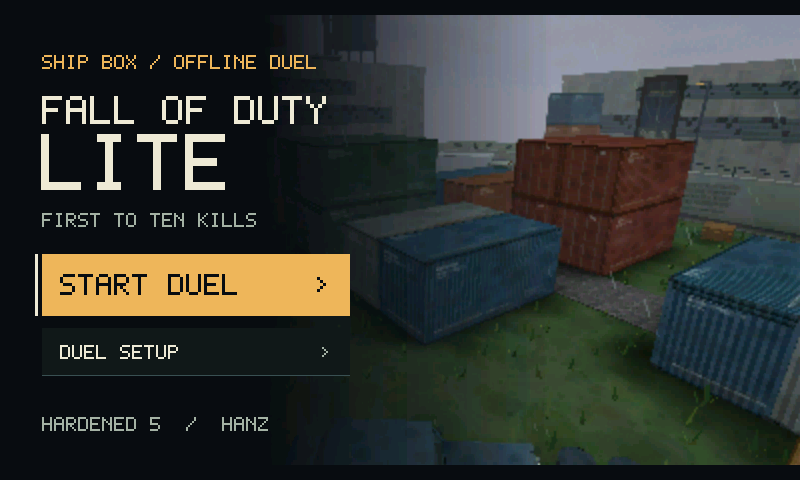
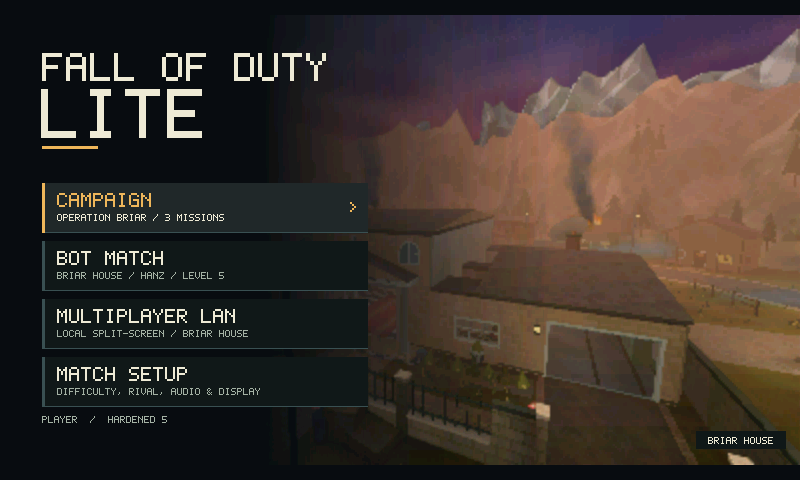
Refresh README with Operation Briar overview, updated sizes, and new screenshots

diff --git a/README.md b/README.md
@@ -1,151 +1,76 @@
 # Fall of Duty Lite
 
-**3.92 MB (3,917,641 bytes)** for the current microSD game pack. [Pack manifest](assets/fall-of-duty.fodp.json)
+**An offline, software-rendered first-person shooter for the ESP32-P4 handheld and SDL2 desktops** — packing a three-mission alien-invasion campaign, 1v1 and three-way bot matches, and local split-screen duels into a **4.00 MB** core game pack, plus a **3.38 MB** optional voice bank (**7.38 MB** total on SD for the full voiced campaign).
 
-Fall of Duty Lite is an offline first-person shooter for the Guition JC4880P443C_I_W ESP32-P4 and SDL2 desktops. Fight a first-to-ten match in Ship Box, a rain-soaked container yard. Duel either rival or face both in a three-way free-for-all. Difficulty ranges from 1 to 10 and defaults to level 5. The game renders at 400×225 or 320×180 and presents at 800×480.
+- **Core SD pack (`fall-of-duty.fodp`):** `4,001,984 bytes` (**4.00 MB**) ([manifest](assets/fall-of-duty.fodp.json)) — complete game & playable 3-mission campaign with subtitles, **4.6% smaller than the Doom v1.9 shareware WAD** ([reference](https://github.com/viti95/FastDoom/blob/master/README.txt))
+- **Voiced campaign bank (`campaign-voices.fodv`):** `3,379,439 bytes` (**3.38 MB**) ([manifest](assets/campaign-voices.fodv.json)) — 104 spoken lines across five voices, loaded only during Campaign (**7.38 MB** combined on SD)
+- **Targets:** Guition `JC4880P443C_I_W` (ESP32-P4, 800×480 display, wired DualShock 4) and macOS / Linux / Windows SDL2 desktops
 
-The pack is **6.6% smaller than the Doom v1.9 shareware WAD**. [Doom WAD size](https://github.com/viti95/FastDoom/blob/master/README.txt)
+[Operation Briar](#operation-briar-campaign) · [Play on Desktop](#play-on-desktop) · [Controls](#controls) · [Screenshots](#screenshots) · [Handheld Setup](#handheld-download-and-hardware) · [Verification & Benchmarks](#verification-and-testing)
 
-[Download v1.1.0 handheld package](https://github.com/AJ7-III/Fall-of-Duty-Lite/releases/tag/v1.1.0) · [Handheld setup](INSTALL.md) · [Play on desktop](#play-on-desktop) · [Board build and qualification](BOARD.md) · [Evidence and benchmarks](EVIDENCE.md)
+![Fall of Duty Lite start screen over dusk Briar House showing Campaign, Bot Match, Multiplayer LAN, and Match Setup](docs/images/title.png)
 
-![A Ship Box duel with the MP44, Hanz across the yard, and an active UAV on the minimap](docs/images/gameplay.png)
+---
 
-## Inside Ship Box
+## Three ways to play
 
-- **Three weapons with first-person arms** — Fuller olive sleeves and padded gloves sit close to the camera. The MP44 and USP .45 use subdued steel, and the M40A3 has a painted stock with a tinted scope lens.
-- **Distinct faces and field kits** — IPwndUrMom wears sand, Hanz has stubble and wears muted rust and charcoal, and the player wears olive camouflage and raised goggles.
-- **Killstreaks and rival voice comms** — Three consecutive kills activate UAV radar. Five unlock a targeted airstrike and seven unlock Apache support. The shared 27-line voice bank decodes mono 24 kHz IMA ADPCM on demand.
-- **Ship Box yard** — Green turf and 300 low-poly grass tufts fill the yard between the stone paths. Mild texture sharpening keeps lettering and surface edges legible at both render sizes.
-- **Baked daylight** — While the pack loads, the renderer works out soft sun shadows and ambient shade from the yard's own geometry. Containers darken toward the ground, the rival casts a contact shadow, and distant buildings fade into rain haze.
-- **Enhanced software renderer** — Perspective-aware mip blending, diagonal edge smoothing, 16-bit reciprocal depth, and a dithered sky cubemap. Desktop `--look classic` runs the earlier renderer for comparisons. [Rendering notes](QUALITY.md)
-- **Lossless asset compression** — The schema 7 pack stores independently compressed blocks and decodes them as it loads.
+- **Operation Briar (Campaign)** — A three-mission story set across the Colorado Front Range on Day One of an alien landing. Wake up in a wrecked drop zone, sweep a mist-covered mountain town, turn the invaders' own homing signal against them, and steer a mothership off the valley.
+- **Bot Match (1v1 & Free-for-All)** — First to ten in **Ship Box** (a rain-soaked container yard) or **Briar House** (a two-lobby mansion with covered flanks). Face **IPwndUrMom**, **Hanz**, or both at once across difficulty levels 1–10 (default 5), complete with UAV radar (3 kills), targeted Airstrike laptop (5 kills), Apache gunship support (7 kills), and 27 voiced rival taunts.
+- **Local Two-Player Duel (Desktop)** — Plug in two SDL gamepads and run `--local-duel` for 60 fps split-screen matches on either arena.
 
-## Handheld download and hardware
+---
 
-The v1.1.0 Guition archive is about **4.47 MB**. [GitHub release](https://github.com/AJ7-III/Fall-of-Duty-Lite/releases/tag/v1.1.0)
+## Operation Briar campaign
 
-- [Fall-of-Duty-Lite-Guition-ESP32-P4.zip](https://github.com/AJ7-III/Fall-of-Duty-Lite/releases/download/v1.1.0/Fall-of-Duty-Lite-Guition-ESP32-P4.zip)
-- [Fall-of-Duty-Lite-Guition-ESP32-P4.zip.sha256](https://github.com/AJ7-III/Fall-of-Duty-Lite/releases/download/v1.1.0/Fall-of-Duty-Lite-Guition-ESP32-P4.zip.sha256)
-- [Latest releases](https://github.com/AJ7-III/Fall-of-Duty-Lite/releases/latest)
+Choose **Campaign** on the title screen, or launch straight into it on desktop with `build/host/fod_host --mission briar-house`. Choose **Next Mission** on the results screen to carry your time and survivor outcomes forward.
 
-The archive bundles the bootloader, partition table, application binary, schema 7 SD pack, reference replay traces, `INSTALL.md`, licenses, and `SHA256SUMS`. Keep the firmware and SD pack from the same archive together because schema 7 packs require firmware with schema 7 support.
+> **The premise:** The alien fleet came down on Briar House because Dr. Nora Marsh's rooftop radio array was transmitting. *Warhorse 2-1* was shot down on final approach to extract her family. The campaign follows what she — and Delta Squad — do with that signal.
 
-The [voiced Operation Briar preview](https://github.com/AJ7-III/Fall-of-Duty-Lite/releases/tag/campaign-voices-preview-2) includes matching handheld firmware and SD files. For desktop, download the preview's source archive and follow [Play on desktop](#play-on-desktop). The source includes the base game pack and the compressed campaign voices.
-
-| Component | Target profile |
+| Mission 1 — Briar House breakout | Mission 3 — The Array finale |
 | --- | --- |
-| Board and SoC | Guition JC4880P443C_I_W with pre-v3 ESP32-P4 silicon (v0.0–v1.99 image range, 360 MHz CPU, 16 MB flash, 200 MHz PSRAM) |
-| Display and touch | ST7701S DPI panel (800×480 presentation, selectable 400×225 and 320×180 world modes) and GT911 touch for menus and HUD pause |
-| Audio and storage | ES8311 I²S speaker output and FAT32 microSD card over SDMMC (`/sd/fall-of-duty.fodp`) |
-| Controller | Wired Sony DualShock 4 (`VID 054c`, `PID 05c4` or `09cc`) on the P4 high-speed USB host port |
+| ![Breaking out of Briar House's Grand Hall past shielded alien troopers and a drone tether](docs/images/briar-breakout.png) | ![Steering the mothership's landing beam from Briar House's rear door while Nora warns of a roof jammer](docs/images/briar-finale.png) |
 
-Follow the [handheld installation guide](INSTALL.md) to verify `SHA256SUMS`, copy the contents of `sd/` to the root of a FAT32 microSD card, confirm the chip and flash ID with `esptool`, and flash `@flash_args`. Plug in the speaker and DualShock 4, boot, and pick **Start Duel** with Cross or touch.
+### The three missions
 
-For a three-way match, open **Match Setup**, cycle **Rival** to **Free-for-all**, then return to the title screen and choose **Start FFA**. The rivals can score against each other, and the kill feed shows who scored. Only your own kills advance your killstreak.
+1. **Briar House** — Wake up concussed in the Grand Hall after Delta-1 drags you clear of the burning wreck. Open from sniper overwatch on the portico, break out onto South Boulevard, and sweep three town districts in any order:
+   - **East Ridge (Ben):** Clear the riflemen covering his pickup and wave him across when nothing has eyes on him. Signal too early and he draws fire and ducks back.
+   - On **North Valley Avenue**, a cyan tether connects the drone to the Enforcer pinning Nora. Shoot the drone to collapse the shield, or use the opening when Nora’s dish distracts it. Destroy the receiver on this visit to North Avenue.
+   - In **West Timberline**, Walt waits at the western approach to the clearing. Crouch beside him to follow his covered route toward Dustoff’s flares, or clear the patrol and let him move on his own.
 
-Choosing **Campaign**, or a bot match in an arena that is not loaded, restarts the handheld into that arena. It shows a loading card, builds Briar House from the pack before the renderer starts, and returns to the title screen with that mode selected. Press Cross to begin. The firmware for this has been cross-built but not yet run on a board.
+   Once the family is accounted for and the receiver is down, hold **North Town Clearing** with Apache support until **Dustoff-1** lands. Watch for beams from the fleet marking the next landing. Signal the family across when the wall is clear. Nora stays with her dish.
 
-> [!NOTE]
-> The v1.1.0 handheld package is cross-built with ESP-IDF v5.5.3 and checked for flash layout and image checksums. Physical Guition JC4880P443C_I_W qualification is still pending. Display scanout, touch corners, USB controller handling, audio under scanout, optical latency, and full first-to-ten play on hardware remain to be verified using [BOARD.md](BOARD.md).
+2. **Timberline** — Carry Nora's portable emitter up to her father's lane. Hold **Signal** on clear ground to lure a scout saucer into dropping unaware squads wherever you point, while fighting off jammer drones and a final heavy pass that creeps toward the kit if you let go. Four answered calls give Nora the calibration she needs — and draw the mothership toward Briar House.
 
-## Play on desktop
+3. **The Array** — Fight back through Briar House's front garden and Grand Hall to the rear doorway. While Delta-1 holds the door against incoming drops, hold **Signal** to walk the mothership's landing beam out to the west saddle without scorching Dustoff's clearing — then drop the final long-range jammer through the doorway to lock the fleet down beyond the ridge.
 
-From the repository root, install CMake 3.22+, Ninja, a C++17 compiler, zlib 1.2.9+, and SDL2 development files. The checked-in `assets/fall-of-duty.fodp` pack is ready to run. On macOS, the Command Line Tools SDK supplies zlib, and Homebrew can install CMake, Ninja, and SDL2.
+### Campaign mechanics & voices
 
-```sh
-cmake -S . -B build/host -G Ninja -DCMAKE_BUILD_TYPE=Release
-cmake --build build/host
-ctest --test-dir build/host --output-on-failure
-build/host/fod_host
-```
+- **One control for everything:** **Signal** (`F`, `L1`, or `LB`) calls people across cover, paints drop zones, and steers the mothership's beam. You cannot fire while holding it; the prompt beneath the reticle shows what it will do.
+- **Branching outcomes:** If Nora is lost in Briar House, Delta-1 works from her notes through Timberline and The Array — without her jammer warnings — and the closing lines and epilogues reflect who made it out and whether the clearing survived.
+- **Full voice acting with subtitle fallback:** All 104 lines across Delta-1, Nora Marsh, Dustoff-1, Walt Marsh, and Ben Marsh are encoded in `assets/campaign-voices.fodv` (12 kHz radio-bandpassed comms and 24 kHz in-person dialogue, IMA ADPCM). Keep `campaign-voices.fodv` beside `fall-of-duty.fodp`; subtitles remain active if the voice bank is missing or **Radio Sound** is muted.
+- **Tactical combat:** Ground aliens have four recessed eyes and a chest weak point — hit the chest for criticals or to backfire a charging heavy's cannon. Blue plasma clouds travel visibly downrange and can be dodged; hits crackle across the HUD and briefly slow movement. Dropping a shield-linking drone shatters its partner's shield.
+- **Checkpoints & Rank S:** Checkpoints save at key transitions and restore civilian outcomes, kills, and time on retry. Rank S on Briar House requires all three civilians saved, zero checkpoint reloads, and a clear time under 5:00.
 
-Solo targets 60 fps and renders at **1280×720** by default on macOS. Use **Render Size** in Match Setup or the pause menu, or pass `--mode 800`, `--mode 400`, or `--mode 320` to start at a lower resolution. Pass `--look classic` to use flat lighting and nearest-neighbor scaling, or `--pack PATH` to load another `.fodp` file. The enhanced look uses bilinear filtering when scaling. Pass `-DFOD_DESKTOP=OFF` when configuring CMake for a headless CLI and test build without SDL2.
+---
 
-### Operation Briar campaign
+## Crafted for low-resolution software rendering
 
-Choose **Campaign** on the title screen, or run `build/host/fod_host --mission briar-house` on desktop. **Operation Briar** is a three-mission campaign across the Colorado valley. Choose **Next Mission** on the results screen to continue.
+Everything renders on the CPU — no GPU required — at 400×225 or 320×180 on the handheld (presented at 800×480) and up to **1280×720** on desktop:
 
-Keep `campaign-voices.fodv` beside `fall-of-duty.fodp` when moving the asset packs. Campaign subtitles work when the voice bank is unavailable.
+- **Enhanced software rasterizer** — Perspective-aware mip blending, diagonal edge smoothing, 16-bit reciprocal depth, dithered sky cubemap, and bilinear scaling (pass `--look classic` on desktop to compare the original flat-lit renderer).
+- **Baked daylight & atmosphere** — Loads fast and bakes soft sun shadows and ambient shade directly from arena geometry, with contact shadows, rain haze, dusk valley mist, windblown fire/smoke, and procedural damp/dry surfaces in Briar House.
+- **Expressive weapons & motion** — Three weapons (**MP44**, **M40A3**, **USP .45**) with fitted first-person gloves, multi-phase reload and bolt tracks, a distance-driven sprint cycle, turn lag, landing dip, character travel lean, and a banking Apache gunship.
+- **Compact audio & storage** — Schema 7 lossless block compression keeps the core pack (`fall-of-duty.fodp`) at `4.00 MB`, while the optional 104-line campaign voice sidecar (`campaign-voices.fodv`) adds `3.38 MB` (`7.38 MB` combined on SD). Both the 27-line rival bank and the 104-line campaign bank stay compressed in IMA ADPCM and decode live during mixing.
 
-The fleet came down on Briar House because Nora Marsh's radio dish was transmitting. The campaign follows what she does with that.
+See [QUALITY.md](QUALITY.md), [EVIDENCE.md](EVIDENCE.md), and [ASSET_PIPELINE.md](ASSET_PIPELINE.md) for rendering details, measurements, and pack internals.
 
-1. **Briar House.** Break out after Warhorse 2-1 goes down, find Nora and her family across town, and hold North Town Clearing until Dustoff lands. Then send the family across to the bird. Nora stays behind with her dish.
-2. **Timberline.** Take Nora's portable emitter to her father's lane. Hold **Signal** on open ground and the small saucer flies there and lands its drop, unaware of you. Four answered calls give her the calibration she needs.
-3. **The Array.** Fight back through Briar House to the rear door. Hold **Signal** to steer the mothership's landing beam off the valley to the west saddle. If the beam crosses the clearing, Dustoff has nowhere to land.
-
-**Signal** (`F`, `L1` or `LB`) is the campaign's one new control. It calls people, then drops, then ships. While you hold it you cannot fire. The prompt below the reticle says what it will do. Without Nora, Delta-1 works from her notes in the later missions, and Timberline and The Array play out without her warnings.
-
-#### Briar House
-
-Wake up in the Grand Hall. Delta-1 says what happened and then leaves the opening shot to you. From the portico, take the first shot at the patrol by the wreck, then break out onto South Boulevard. Sweep the town in any order.
-
-- **East Ridge.** Two riflemen cover Ben's pickup. When nothing can see him, signal him across from where you stand. Signal too early and he draws fire and ducks back.
-- **North Valley Avenue.** An Enforcer and a shield drone pin Nora. Each pulse from her dish turns the drone toward the house and drops the Enforcer's shield for a moment.
-- **West Timberline.** Crouch near Walt and he leads you to the stone wall, waiting while the scout's scanner faces his way. If the patrol detects you, he waits for you to clear it.
-
-Shoot the receiver tower on North Avenue that is listening to Nora's dish, then hold the North Town Clearing with Apache support. The evacuation timer pauses outside the perimeter drawn on the minimap. When it runs out, Dustoff lands while the fight goes on. Signal when nothing can see the stone wall. Survivors who are seen break cover, draw a shot and duck back. The results count everyone saved, including Nora.
-
-Ground aliens have four recessed eyes and split, fanged jaws in the torso. Aim at that chest weak point for critical hits and to interrupt a charging Enforcer. Their guns launch basketball-sized clouds of blue plasma along the barrel. You can dodge the clouds or get behind cover first. A hit crackles across the screen and briefly slows your movement. Wounded aliens fall back into cover and return from a new angle. Destroying a scout drone can collapse the shield it projects onto a nearby rifleman.
-
-The Warhorse wreck and burning rooftops throw off windblown smoke and sparks. Valley mist gathers close to the ground, and slanting rain moves in during the extraction hold. Ben wears a navy work jacket, Nora wears burgundy and glasses, and Walt wears a canvas coat and knit cap.
-
-The route marker follows the district you engage. When a building blocks the direct approach, it points down a walkable street. Checkpoints save at the overwatch, after the breakout, before the receiver and when the receiver goes down. A retry restores civilian outcomes, kills and time from that checkpoint. Delta-1 tops up low ammo after the sweep. Tap Swap to return to your previous weapon or hold it to reach the third. Subtitles stay visible with **Radio Sound** off. Rank S needs all three civilians, no checkpoint reloads, and a time under 5:00.
-
-#### Timberline and The Array
-
-**Timberline:**
-
-- **The emitter.** It only accepts ground you can see that is clear of Nora's kit. The landing spot and range show over the world.
-- **The calls.** The third call brings a jammer that drags the saucer down onto the emitter unless you shoot it first. The fourth call fights the pointer and creeps toward Nora unless you keep holding Signal.
-- **Drops.** A drop nobody engages goes looking for the emitter.
-
-**The Array:**
-
-- **The beam.** At the rear door the dish follows your bearing. Look at the hills to send the beam out, or lower to bring it closer. Let go and the mothership drifts toward the dish. If it reaches the house, the mission fails.
-- **The house.** Riflemen and Enforcers come over the rear lawn and Delta-1 holds the door. Jammers hover beside the east wing, so step onto the patio to shoot them.
-- **The saddle.** Hold the beam there to fill the lock. The last jammer holds the dish from across the lawn, a scoped shot through the doorway.
-
-Checkpoints save at the start of each mission, after each answered call, and at the rear door. The results show the campaign clock, and a retry restores the saved time.
-
-Run `build/host/fod_host --map briar-house` for the standard mansion duel playtest (or add `--local-duel` for two-player split-screen). The grand hall is the direct route between the lobbies, with the service wing, portrait gallery, and open garage bay offering covered flanks and a fallen bookcase sealing the stairs.
-
-### Local two-player duel
-
-```sh
-build/host/fod_host --local-duel
-```
-
-Pair two SDL-compatible gamepads with the computer. The 8BitDo Pro 2 may appear as **Pro Controller** in Switch mode. Press **Start** or **+** on each controller to claim a slot, then press the confirm button shown for Player 1. On the Pro 2, that's the printed **B**. The first player to ten wins. A simultaneous 10–10 ends in a draw.
-
-Either player can pause with **Start**. If a controller disconnects, press **Start** on the reconnected pad to reclaim the open seat, then press **Start** again to resume. Press the bottom face button on the results screen for a rematch. The Mac split-screen build renders at 640×360 per view and targets 60 fps. Use `--duel-resolution 400` or `--duel-resolution 800` to select 400×225 or 800×450. Local duels use the three standard weapons.
-
-### Controls
-
-SDL gamepads use the same layout as the handheld DualShock 4. On the Guition, touch works in menus and on the HUD pause button. Losing focus or disconnecting a controller pauses a desktop match. Resume explicitly when ready.
-
-On desktop, controller play leaves the cursor free. In Solo, click inside the game window to switch to mouse aim. Pause to release the mouse again.
-
-The Nintendo controller profile, which includes the 8BitDo Pro 2 in Switch mode, uses 80% stick sensitivity by default. Other desktop profiles default to 100%. Pass `--stick-sensitivity 70` in Solo or Local Duel to set the right-stick sensitivity to 70%.
-
-| Action | Keyboard and mouse | DualShock 4 / Xbox-style | 8BitDo Pro 2 |
-| --- | --- | --- | --- |
-| Move | `W A S D` | Left stick | Left stick |
-| Look and airstrike cursor | Mouse | Right stick | Right stick |
-| Fire and mark airstrike | Left mouse | `R2` / Right trigger | `R2` |
-| Aim down sights | Right mouse or `Space` | `L2` / Left trigger | `L2` |
-| Sprint | `Shift` | `L3` / Left stick press | Left stick press |
-| Jump | `Z` | `Cross` / `A` | `B` |
-| Crouch (tap) or prone (hold) | `C` | `Circle` / `B` | `A` |
-| Reload | `R` | `Square` / `X` | `Y` |
-| Swap weapon (campaign: tap for previous, hold for third) | `X` | `Triangle` / `Y` | `X` |
-| Signal (campaign) | `F` | `L1` / `LB` | `L` |
-| Deploy banked streak or close laptop | `Up` arrow or `4` | D-pad Up | D-pad Up |
-| Confirm or start duel | `Enter` or click menu | `Cross` / `A` | `B` |
-| Navigate menus | Arrow keys | D-pad | D-pad |
-| Back from Match Setup | `Esc` or `P` | `Circle` / `B` | `A` |
-| Pause or resume | `Esc` or `P` | `Options` / `Start` | `+` |
+---
 
 ## Screenshots
+
+| Operation Briar — North Town LZ | Ship Box — Bot duel |
+| --- | --- |
+| ![Holding the flare-lit North Town Clearing LZ against a charging alien and shield-linking scout drone](docs/images/briar-lz.png) | ![A Ship Box duel with the MP44, Hanz across the yard, and an active UAV on the minimap](docs/images/gameplay.png) |
 
 | MP44 iron sights | M40A3 bolt cycle |
 | --- | --- |
@@ -155,34 +80,106 @@ The Nintendo controller profile, which includes the 8BitDo Pro 2 in Switch mode,
 | --- | --- |
 | ![Both gloves wrap around the USP .45 grip in first person](docs/images/usp45.png) | ![Close-ups of IPwndUrMom in sand and Hanz in rust and charcoal](docs/images/rivals.png) |
 
-| Start menu | Airstrike targeting laptop |
+| Start screen (Ship Box) | Airstrike targeting laptop |
 | --- | --- |
-| ![Fall of Duty Lite start menu over Ship Box](docs/images/title.png) | ![Airstrike laptop tactical targeting map](docs/images/airstrike.png) |
+| ![Fall of Duty Lite start menu over Ship Box with Campaign, Bot Match, Multiplayer LAN, and Match Setup](docs/images/title-shipbox.png) | ![Airstrike laptop tactical targeting map](docs/images/airstrike.png) |
 
-## Verification status
+---
 
-Host verification and cross-build checks are recorded in [EVIDENCE.md](EVIDENCE.md), while physical board tests follow [BOARD.md](BOARD.md#qualification-status).
+## Play on desktop
+
+### Build and run
+
+Requires CMake 3.22+, Ninja, a C++17 compiler, zlib 1.2.9+, and SDL2 development files. On macOS, Xcode Command Line Tools provide zlib, and Homebrew installs CMake, Ninja, and SDL2. Both `assets/fall-of-duty.fodp` and `assets/campaign-voices.fodv` are checked in and ready to play.
+
+```sh
+cmake -S . -B build/host -G Ninja -DCMAKE_BUILD_TYPE=Release
+cmake --build build/host
+ctest --test-dir build/host --output-on-failure
+build/host/fod_host
+```
+
+### Launch modes
+
+```sh
+build/host/fod_host                         # Ship Box bot duel (default)
+build/host/fod_host --mission briar-house   # Operation Briar campaign
+build/host/fod_host --map briar-house       # Briar House mansion bot duel
+build/host/fod_host --local-duel            # 2-player split-screen (two SDL gamepads)
+```
+
+- **Display:** Solo renders at **1280×720** by default at 60 fps. Change **Render Size** in Match Setup or the pause menu, or pass `--mode 800`, `--mode 400`, or `--mode 320`. Pass `--look classic` for flat lighting and nearest-neighbor scaling, or `-DFOD_DESKTOP=OFF` to CMake for a headless CLI/test build without SDL2.
+- **Local two-player duel:** Connect two SDL-compatible gamepads (an 8BitDo Pro 2 in Switch mode may appear as *Pro Controller*). Press **Start** or **+** on each pad to claim a seat, then press Player 1's confirm button (**B** on the Pro 2). First to ten wins; simultaneous 10–10 is a draw. Renders at 640×360 per view by default (use `--duel-resolution 400` or `--duel-resolution 800` to change).
+
+---
+
+## Controls
+
+SDL gamepads mirror the handheld DualShock 4 layout. On desktop, controller play keeps the cursor free; click inside the window in Solo to capture mouse aim, and pause to release it. Losing window focus or disconnecting a controller pauses automatically.
+
+Nintendo-layout controllers (including 8BitDo Pro 2 in Switch mode) default to 80% stick sensitivity; other gamepads default to 100%. Override with `--stick-sensitivity PERCENT` (1–200).
+
+| Action | Keyboard & mouse | DualShock 4 / Xbox | 8BitDo Pro 2 |
+| --- | --- | --- | --- |
+| Move | `W A S D` | Left stick | Left stick |
+| Look / airstrike cursor | Mouse | Right stick | Right stick |
+| Fire / mark airstrike | Left click | `R2` / `RT` | `R2` |
+| Aim down sights | Right click or `Space` | `L2` / `LT` | `L2` |
+| Sprint | `Shift` | `L3` | Left stick press |
+| Jump | `Z` | `Cross` / `A` | `B` |
+| Crouch (tap) / prone (hold) | `C` | `Circle` / `B` | `A` |
+| Reload | `R` | `Square` / `X` | `Y` |
+| Swap weapon *(campaign: tap = previous, hold = third)* | `X` | `Triangle` / `Y` | `X` |
+| Signal *(campaign)* | `F` | `L1` / `LB` | `L` |
+| Deploy killstreak / close laptop | `Up` arrow or `4` | D-pad Up | D-pad Up |
+| Confirm / start | `Enter` or click | `Cross` / `A` | `B` |
+| Navigate menus | Arrow keys | D-pad | D-pad |
+| Back / pause / resume | `Esc` or `P` | `Circle` / `Options` | `A` / `+` |
+
+---
+
+## Handheld download and hardware
+
+### Releases
+
+- **Voiced Operation Briar preview (`7.81 MB` / `7,806,754 bytes`, recommended for Campaign):** [campaign-voices-preview-2](https://github.com/AJ7-III/Fall-of-Duty-Lite/releases/tag/campaign-voices-preview-2) · [Fall-of-Duty-Lite-Guition-ESP32-P4-Campaign-Voices.zip](https://github.com/AJ7-III/Fall-of-Duty-Lite/releases/download/campaign-voices-preview-2/Fall-of-Duty-Lite-Guition-ESP32-P4-Campaign-Voices.zip) · [SHA-256](https://github.com/AJ7-III/Fall-of-Duty-Lite/releases/download/campaign-voices-preview-2/Fall-of-Duty-Lite-Guition-ESP32-P4-Campaign-Voices.zip.sha256) — bundles the ESP32-P4 firmware, `fall-of-duty.fodp` (`4.00 MB`), and `campaign-voices.fodv` (`3.38 MB`) (plus source archive for desktop).
+- **Base v1.1.0 handheld release (`4.47 MB`, Ship Box only):** [v1.1.0 release](https://github.com/AJ7-III/Fall-of-Duty-Lite/releases/tag/v1.1.0) · [Fall-of-Duty-Lite-Guition-ESP32-P4.zip](https://github.com/AJ7-III/Fall-of-Duty-Lite/releases/download/v1.1.0/Fall-of-Duty-Lite-Guition-ESP32-P4.zip) · [SHA-256](https://github.com/AJ7-III/Fall-of-Duty-Lite/releases/download/v1.1.0/Fall-of-Duty-Lite-Guition-ESP32-P4.zip.sha256) · [All releases](https://github.com/AJ7-III/Fall-of-Duty-Lite/releases/latest)
+
+Keep the firmware and SD pack from the same archive together. Each release bundles the bootloader, partition table, app binary, SD files, replay traces, `INSTALL.md`, licenses, and `SHA256SUMS`.
+
+### Target hardware
+
+| Component | Target profile |
+| --- | --- |
+| **Board & SoC** | Guition `JC4880P443C_I_W` with pre-v3 ESP32-P4 silicon (v0.0–v1.99 image range, 360 MHz CPU, 16 MB flash, 200 MHz PSRAM) |
+| **Display & touch** | ST7701S DPI panel (800×480 presentation; 400×225 and 320×180 world modes) and GT911 touch for menus and HUD pause |
+| **Audio & storage** | ES8311 I²S speaker output and FAT32 microSD over SDMMC (`/sd/fall-of-duty.fodp` + `/sd/campaign-voices.fodv`) |
+| **Controller** | Wired Sony DualShock 4 (`VID 054c`, `PID 05c4` or `09cc`) on the P4 high-speed USB host port |
+
+Follow [INSTALL.md](INSTALL.md) to verify `SHA256SUMS`, copy `sd/` to the root of a FAT32 microSD card, check chip/flash IDs with `esptool`, and flash `@flash_args`. Selecting **Campaign** or switching arenas restarts the board into a loading card, builds Briar House (and loads `campaign-voices.fodv` in Campaign mode), and returns to the title screen ready to play.
+
+> [!NOTE]
+> Handheld packages are cross-built with ESP-IDF v5.5.3 and checked for flash layout and checksums, while physical Guition `JC4880P443C_I_W` board qualification (live scanout, touch corners, USB gamepad, audio under scanout, and optical latency) remains pending per [BOARD.md](BOARD.md).
+
+---
+
+## Verification and testing
 
 | Area | Status | Summary |
 | --- | --- | --- |
-| Native test suite | Verified on desktop | Release and sanitizer builds complete duels against both rivals and cover all three free-for-all win paths, respawns, streaks, radar, and both render sizes. |
-| Replay parity | Verified on desktop | Eight browser reference traces and a native Free-for-all stress trace produce matching journals at both resolutions. The browser comparison enforces tick counts and rejects unexpected gameplay differences. |
-| Asset memory | Verified on desktop | The loader reports 9,826,953 resident asset bytes and an estimated 9,908,873-byte loading peak (12 MiB limit). |
-| Desktop frame timings | Measured on desktop | Projection reuse reduced geometry setup p95 by 29–33% and whole-frame p95 by 1.6–14.6%, while the later runtime geometry pass lowered resident memory with an inconclusive frame-time spread between 2.3% faster and 0.1% slower |
-| Baked daylight | Measured on desktop | The bake adds 36 ms to renderer start and 207,214 bytes of working memory. Median frame work rose 8.6–10.5% on the benchmark replays. Handheld timings are pending. |
-| Firmware | Cross-build validated | The ESP-IDF v5.5.3 application image leaves 42% of the app partition free. The package passed flash layout and checksum checks. |
-| Guition hardware | Qualification pending | See the [on-device test procedure](BOARD.md#replay-and-measurement) for scanout, input, audio, latency, and full hardware duels. |
+| **Native & platform tests** | Verified on desktop | Release and ASan/UBSan builds pass all 6 CTest suites: 1v1 & FFA duels, local split-screen, desktop init failure, scripted 3-mission Operation Briar runs (with and without Nora), voice playback/muting, and checkpoint retries. |
+| **Replay parity** | Verified on desktop | 8 browser reference fixtures, `ffa-apache`, and 3 campaign traces (`briar-breakout`, `briar-landing-zone`, `briar-finale`) match byte for byte at 320×180 and 400×225, with voices enabled, muted, or absent. |
+| **Asset memory** | Verified on desktop | Ship Box loads at `9,830,221` resident bytes (`9,912,141` peak, 12 MiB loader limit); Briar House Campaign builds to `11,598,072` resident bytes plus the `3.38 MB` `campaign-voices.fodv` bank loaded only in Campaign mode. |
+| **Desktop benchmarks** | Measured on desktop | Projection reuse cut geometry setup p95 by 29–33% and whole-frame p95 by 1.6–14.6%; low-res art, sprint motion, and campaign voice mixing stay within measurement noise. |
+| **ESP32-P4 firmware** | Cross-build validated | ESP-IDF v5.5.3 image and release archive pass partition, flash-layout, and SHA-256 verification; physical hardware run pending ([BOARD.md](BOARD.md#qualification-status)). |
 
-The Apache comparison has a known browser-to-native difference at tick 564 in the dead rival’s vertical root position. [See the replay evidence.](EVIDENCE.md#replay-fixtures)
+*(Known note: the browser-vs-native `apache` fixture allows a bounded 7 cm vertical root difference on the dead rival at ticks 564–570; see [EVIDENCE.md](EVIDENCE.md#replay-fixtures).)*
 
-## Replay, benchmarks, and testing
-
-The repository includes eight browser [reference fixtures](reference/fixtures) covering long-lane combat, glass breakage, movement, weapon cycles, the airstrike laptop, the Apache fly-in, death timing, and match point. The native `ffa-apache` trace exercises both live rivals during an Apache fly-in. The campaign traces exercise the first firefight, the active landing-zone hold, and the rear-door defense in The Array. CTest checks that both render sizes produce identical gameplay journals when Python 3.9 or later is available. Run these commands from the repository root with the checked-in asset pack.
+### Running tests, replays, and benchmarks
 
 ```sh
 ctest --test-dir build/host --output-on-failure
 build/host/fod_host --bench reference/fixtures/long-lane.fodtrace --mode both
-build/host/fod_host --bench reference/fixtures/apache.fodtrace --mode both
 build/host/fod_host --bench reference/fixtures/ffa-apache.fodtrace --mode both
 build/host/fod_host --bench reference/fixtures/briar-breakout.fodtrace --mode both
 build/host/fod_host --bench reference/fixtures/briar-landing-zone.fodtrace --mode both
@@ -192,24 +189,29 @@ python3 tools/run-evidence.py \
   --reference reference/fixtures --out out/evidence
 ```
 
-### Headless CLI options
+### CLI options
 
 | Option | Effect |
 | --- | --- |
-| `--pack PATH` | Load a custom `.fodp` pack (defaults to `assets/fall-of-duty.fodp`) |
-| `--mode 400\|320\|both` | Choose world resolution (`both` runs both sizes during `--bench`) |
-| `--look enhanced\|classic` | Select the enhanced renderer or the earlier classic visual path |
-| `--trace PATH` | Replay a `.fodtrace` recording headlessly |
-| `--journal PATH` | Record per-tick simulation state as JSONL during `--trace` |
+| `--pack PATH` | Load a custom `.fodp` pack (defaults to `assets/fall-of-duty.fodp`; looks beside it for `campaign-voices.fodv`) |
+| `--map ship-box\|briar-house` | Launch directly into a Ship Box or Briar House bot match |
+| `--mission briar-house` | Launch directly into the Operation Briar campaign |
+| `--local-duel` | Start local two-player split-screen (desktop only; pair with `--duel-resolution 400\|640\|800`) |
+| `--mode 320\|400\|800\|1280\|both` | Choose render resolution (`800`/`1280` on desktop; `both` runs 320 and 400 during `--bench`) |
+| `--look enhanced\|classic` | Select the enhanced renderer or the classic flat-lit renderer |
+| `--stick-sensitivity PERCENT` | Set desktop gamepad right-stick sensitivity (`1`–`200`) |
+| `--trace PATH` / `--journal PATH` | Replay a `.fodtrace` headlessly and optionally record per-tick JSONL state |
 | `--bench PATH` | Measure per-stage timings (`--frames 3000` and `--warmup 300` by default) |
-| `--image PATH` | Write an 800×480 PPM frame (pair with `--trace` and `--image-tick N` for a specific tick) |
+| `--image PATH` | Write an 800×480 PPM frame (pair with `--trace` and `--image-tick N`) |
 | `--inspect` | Print JSON asset counts, memory estimates, source revision, and art seed |
 
-## Asset export and firmware packaging
+---
+
+## Asset export & firmware packaging
 
 ### Regenerate the asset pack
 
-Only the optional export and browser capture tools require Node.js and Chromium. Use Node 20.19+, 22.13+, or 24+ within the version ranges in `package.json`.
+Optional export and browser-capture tools require Node.js (20.19+, 22.13+, or 24+) and Playwright Chromium:
 
 ```sh
 npm ci
@@ -218,11 +220,11 @@ npm run data:check
 npm run assets:export
 ```
 
-The exporter writes `out/sd/fall-of-duty.fodp`. Pass that path to `build/host/fod_host --pack out/sd/fall-of-duty.fodp` to test a fresh export. Read [ASSET_PIPELINE.md](ASSET_PIPELINE.md) for the schema 7 layout, compression format, provenance, and optional browser baseline capture.
+The exporter writes `out/sd/fall-of-duty.fodp` (test with `build/host/fod_host --pack out/sd/fall-of-duty.fodp`).
 
-### Build and package handheld firmware
+### Package a handheld release
 
-Follow the [ESP-IDF v5.5.3 board guide](BOARD.md) to build `firmware/build-lite` and activate the pinned SDK environment. Then package the handheld release from the repository root.
+Follow [BOARD.md](BOARD.md) to build `firmware/build-lite` with ESP-IDF v5.5.3, then assemble the release archive from the repo root:
 
 ```sh
 python3 tools/package-release.py \
@@ -231,17 +233,17 @@ python3 tools/package-release.py \
   --out out/Fall-of-Duty-Lite-Guition-ESP32-P4.zip
 ```
 
-The archive contains the bootloader, partition table, firmware application, SD files, replay traces, installation instructions, licenses, and SHA-256 checksums.
+---
 
-## Documentation and attribution
+## Documentation & attribution
 
 | Document | Contents |
 | --- | --- |
 | [INSTALL.md](INSTALL.md) | Handheld flashing steps, SD card setup, recovery flow, and DualShock 4 controls |
-| [BOARD.md](BOARD.md) | ESP-IDF v5.5.3 build profile, display and input bring-up, on-device benchmarks, and qualification checklist |
-| [QUALITY.md](QUALITY.md) | Audio mixing, IMA ADPCM voice bank, and enhanced renderer details |
-| [EVIDENCE.md](EVIDENCE.md) | Asset compression numbers, memory accounting, desktop benchmarks, and replay parity results |
-| [ASSET_PIPELINE.md](ASSET_PIPELINE.md) | Schema 7 pack format, geometry encodings, and optional browser baseline capture |
-| [reference/browser/README.md](reference/browser/README.md) | Included browser snapshot that drives the asset exporter and gameplay data generator |
+| [BOARD.md](BOARD.md) | ESP-IDF v5.5.3 build profile, display/input bring-up, on-device benchmarks, and qualification checklist |
+| [QUALITY.md](QUALITY.md) | Audio mixing, IMA ADPCM voice banks, daylight baking, and enhanced renderer notes |
+| [EVIDENCE.md](EVIDENCE.md) | Compression metrics, memory accounting, desktop benchmarks, and replay parity results |
+| [ASSET_PIPELINE.md](ASSET_PIPELINE.md) | Schema 7 pack layout, geometry encodings, and optional browser baseline capture |
+| [reference/browser/README.md](reference/browser/README.md) | Included browser snapshot driving asset export and gameplay data generation |
 
-The companion browser project is [Fall of Duty](https://github.com/AJ7-III/Fall-of-Duty). See the [MIT license](LICENSE) and [third-party notices](THIRD_PARTY_NOTICES.md).
+Companion browser project: [Fall of Duty](https://github.com/AJ7-III/Fall-of-Duty). Licensed under the [MIT License](LICENSE); see [THIRD_PARTY_NOTICES.md](THIRD_PARTY_NOTICES.md) for third-party attributions.
